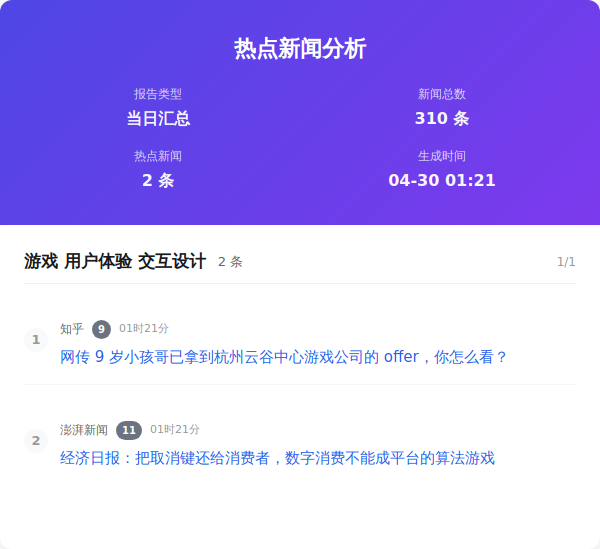
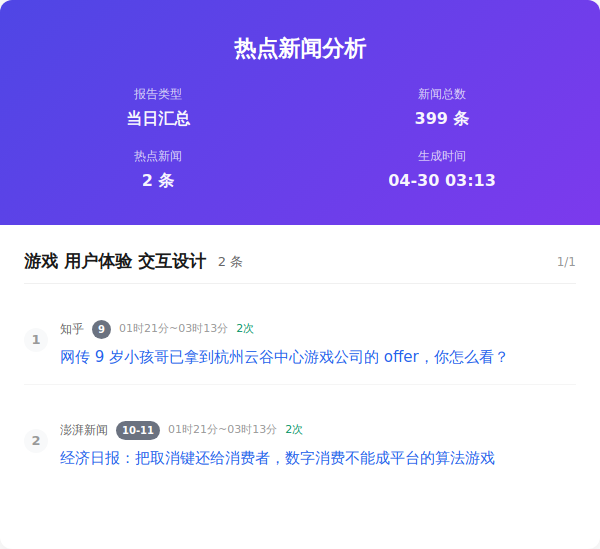
Auto update by GitHub Actions at Thu Apr 30 03:13:43 CST 2026

diff --git a/output/2026年04月30日/html/当日汇总.html b/output/2026年04月30日/html/当日汇总.html
@@ -357,7 +357,7 @@
                     </div>
                     <div class="info-item">
                         <span class="info-label">新闻总数</span>
-                        <span class="info-value">310 条</span>
+                        <span class="info-value">399 条</span>
                     </div>
                     <div class="info-item">
                         <span class="info-label">热点新闻</span>
@@ -365,7 +365,7 @@
                     </div>
                     <div class="info-item">
                         <span class="info-label">生成时间</span>
-                        <span class="info-value">04-30 01:21</span>
+                        <span class="info-value">04-30 03:13</span>
                     </div>
                 </div>
             </div>
@@ -383,7 +383,7 @@
                         <div class="news-number">1</div>
                         <div class="news-content">
                             <div class="news-header">
-                                <span class="source-name">知乎</span><span class="rank-num ">9</span><span class="time-info">01时21分</span>
+                                <span class="source-name">知乎</span><span class="rank-num ">9</span><span class="time-info">01时21分~03时13分</span><span class="count-info">2次</span>
                             </div>
                             <div class="news-title"><a href="https://www.zhihu.com/question/2030722229307229877" target="_blank" class="news-link">网传 9 岁小孩哥已拿到杭州云谷中心游戏公司的 offer，你怎么看？</a>
                             </div>
@@ -393,7 +393,7 @@
                         <div class="news-number">2</div>
                         <div class="news-content">
                             <div class="news-header">
-                                <span class="source-name">澎湃新闻</span><span class="rank-num ">11</span><span class="time-info">01时21分</span>
+                                <span class="source-name">澎湃新闻</span><span class="rank-num ">10-11</span><span class="time-info">01时21分~03时13分</span><span class="count-info">2次</span>
                             </div>
                             <div class="news-title"><a href="https://m.thepaper.cn/newsDetail_forward_33075663" target="_blank" class="news-link">经济日报：把取消键还给消费者，数字消费不能成平台的算法游戏</a>
                             </div>